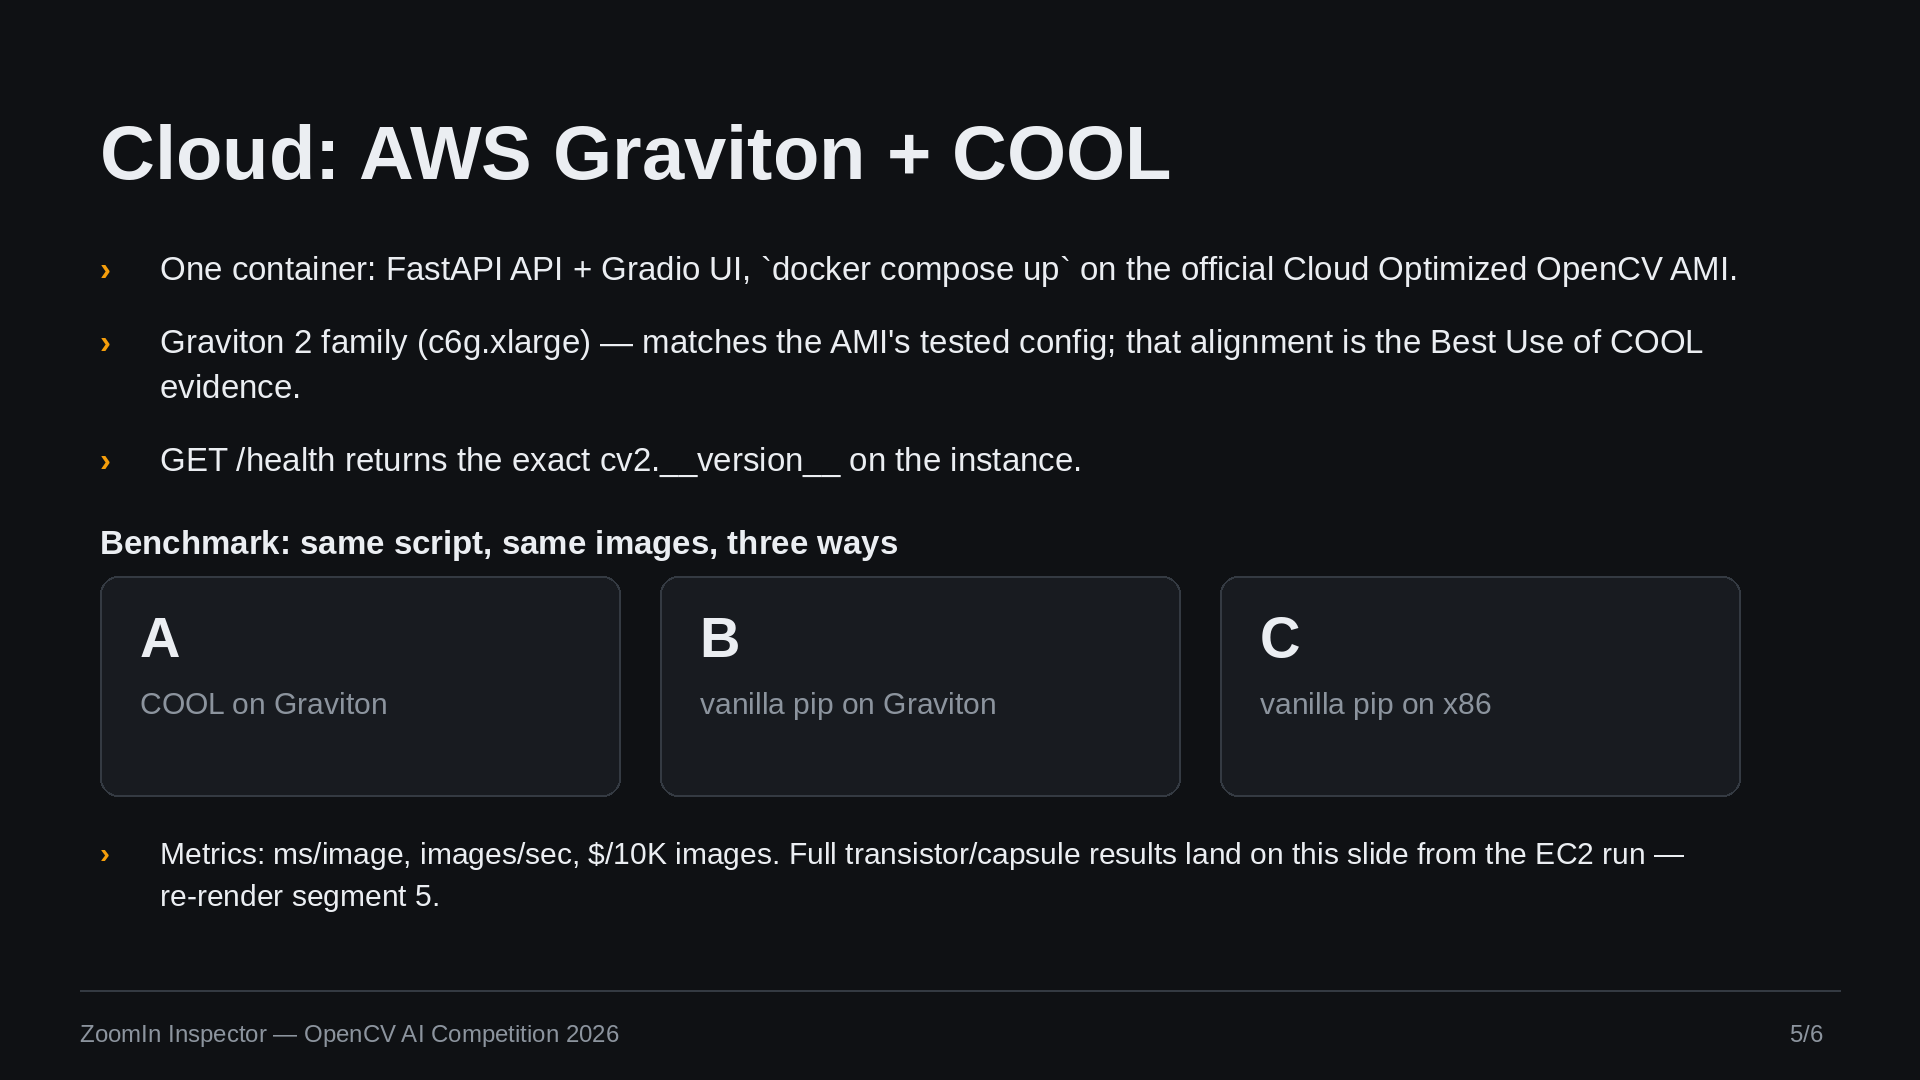
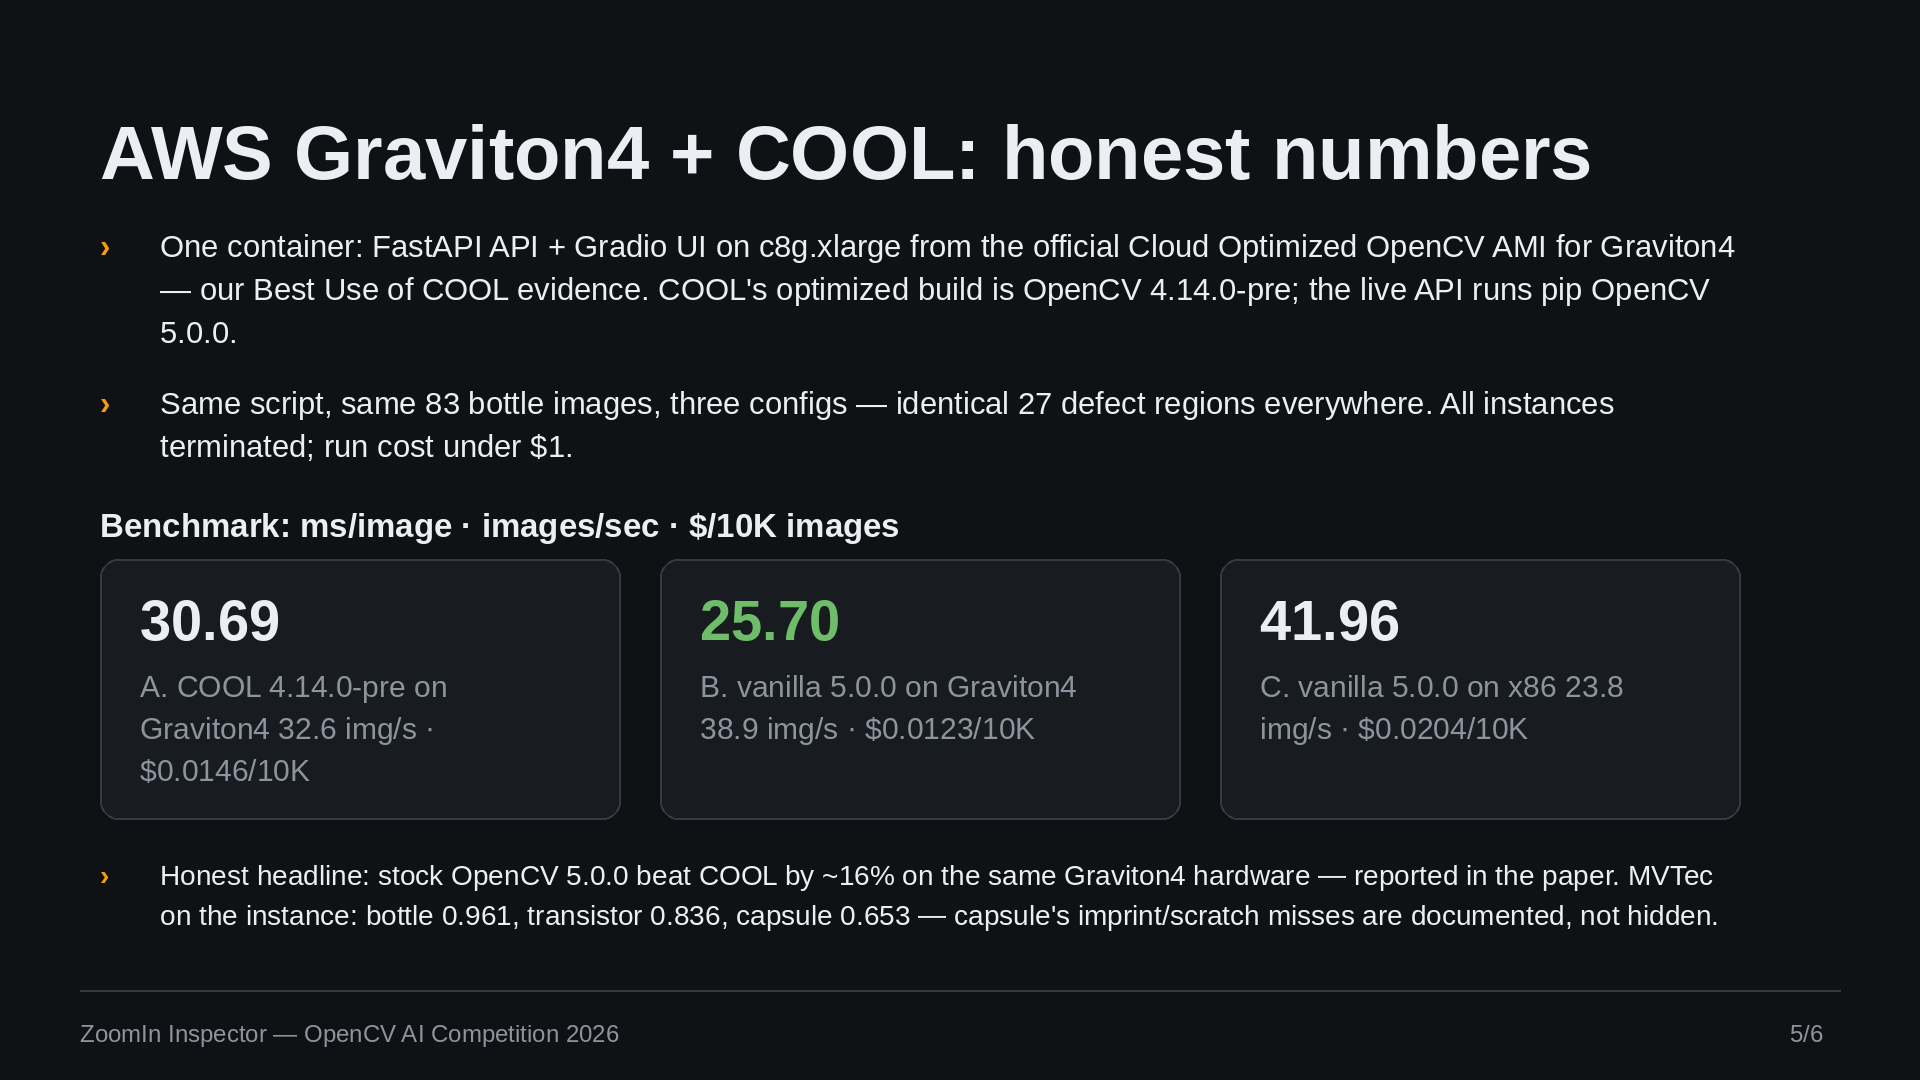
Re-render demo video segment 5 with landed EC2 numbers (v2)
- S5 slide: real benchmark cards (COOL 30.69 / vanilla Graviton 25.70 /
  vanilla x86 41.96 ms/img), honest 16% headline, MVTec bottle 0.961 /
  transistor 0.836 / capsule 0.653; Graviton4 c8g framing (not G2/c6g)
- S5 narration re-recorded via TTS with the landed numbers, incl. the
  capsule failure documented on-slide
- Video v2: 3:54 total (under the 5-min cap), local at video/out/
- docs/DEVPOST.md: paste-ready Devpost draft for the Oct 26 deadline

diff --git a/video/build_slides.py b/video/build_slides.py
@@ -1,8 +1,9 @@
 """Render the ZoomIn Inspector demo-video slides (1920x1080 PNGs) with PIL.
 
 Usage: python3 build_slides.py  -> video/slides/s1..s6.png
-Numbers reflect the MVTec bottle run (2026-10-20) and AWS deploy plan.
-Re-run after editing; EC2 benchmark figures go into s5.
+Numbers reflect the MVTec bottle run (2026-10-20) and the EC2 benchmark
+results (2026-10-22): COOL 30.69 / vanilla-Graviton 25.70 / vanilla-x86 41.96
+ms/image; bottle 0.961, transistor 0.836, capsule 0.653.
 """
 
 from pathlib import Path
@@ -173,8 +174,8 @@ def s4():
          "normal reflection variation.", None),
         ("Synthetic controls: AUROC 1.0, 15.6 ms/image. "
          "Scorer: NumPy/OpenCV only, no learned weights, ~0.5 MB/category.", None),
-        ("Caveat: thresholds tuned on this set; transistor/capsule run on EC2 "
-         "validates per-category.", None),
+        ("Caveat: thresholds tuned on this set; transistor/capsule were run "
+         "on EC2 (0.836 / 0.653) — see the cloud slide.", None),
     ], y, size=30)
     footer(d, 4)
     img.save(OUT / "s4.png")
@@ -182,25 +183,32 @@ def s4():
 
 def s5():
     img, d = canvas()
-    title(d, "Cloud: AWS Graviton + COOL")
+    title(d, "AWS Graviton4 + COOL: honest numbers")
     y = bullets(d, [
-        ("One container: FastAPI API + Gradio UI, `docker compose up` on the "
-         "official Cloud Optimized OpenCV AMI.", None),
-        ("Graviton 2 family (c6g.xlarge) — matches the AMI's tested config; "
-         "that alignment is the Best Use of COOL evidence.", None),
-        ("GET /health returns the exact cv2.__version__ on the instance.", None),
-    ], y=250, size=33)
-    d.text((100, y + 10), "Benchmark: same script, same images, three ways",
+        ("One container: FastAPI API + Gradio UI on c8g.xlarge from the "
+         "official Cloud Optimized OpenCV AMI for Graviton4 — our Best Use "
+         "of COOL evidence. COOL's optimized build is OpenCV 4.14.0-pre; "
+         "the live API runs pip OpenCV 5.0.0.", None),
+        ("Same script, same 83 bottle images, three configs — identical "
+         "27 defect regions everywhere. All instances terminated; run cost "
+         "under $1.", None),
+    ], y=228, size=31)
+    d.text((100, y + 8), "Benchmark: ms/image · images/sec · $/10K images",
            font=F(33, bold=True), fill=FG)
-    y += 62
+    y += 60
     x = 100
-    for name, sub in [("A", "COOL on Graviton"), ("B", "vanilla pip on Graviton"),
-                      ("C", "vanilla pip on x86")]:
-        card(d, x, y, 520, 220, name, sub)
+    for name, sub, hcolor in [
+        ("30.69", "A. COOL 4.14.0-pre on Graviton4\n32.6 img/s · $0.0146/10K", FG),
+        ("25.70", "B. vanilla 5.0.0 on Graviton4\n38.9 img/s · $0.0123/10K", GREEN),
+        ("41.96", "C. vanilla 5.0.0 on x86\n23.8 img/s · $0.0204/10K", FG),
+    ]:
+        card(d, x, y, 520, 260, name, sub, hcolor)
         x += 560
-    bullets(d, [("Metrics: ms/image, images/sec, $/10K images. Full "
-                 "transistor/capsule results land on this slide from the EC2 "
-                 "run — re-render segment 5.", None)], y + 260, size=30)
+    bullets(d, [("Honest headline: stock OpenCV 5.0.0 beat COOL by ~16% on "
+                 "the same Graviton4 hardware — reported in the paper. MVTec "
+                 "on the instance: bottle 0.961, transistor 0.836, capsule "
+                 "0.653 — capsule's imprint/scratch misses are documented, "
+                 "not hidden.", None)], y + 300, size=28)
     footer(d, 5)
     img.save(OUT / "s5.png")
 

diff --git a/docs/DEVPOST.md b/docs/DEVPOST.md
@@ -1,0 +1,74 @@
+# Devpost submission — copy-paste draft (OpenCV AI Competition 2026)
+
+> Status: DRAFT — prepared 2026-10-22 from docs/REPORT.md (§§5–6.4) and the
+> re-rendered demo video. Numbers below are the landed EC2 results.
+
+**Project name:** ZoomIn Inspector
+
+**Tagline:** An agentic visual defect inspector that spends a fixed zoom budget the way a human inspector spends attention — scan the overview, zoom the suspicious regions, escalate when unsure.
+
+**Links**
+- Code: `faketut/zoomin-inspector` (repo push pending; local at `~/workspace/zoomin-inspector`)
+- Live endpoint: judges' API was verified live on the Graviton4 instance during the deploy (GET /health → ok); all instances terminated after the run
+- Video: `video/out/zoomin-demo.mp4` (v2, re-rendered with EC2 numbers — upload to YouTube/Vimeo and paste the link; Devpost needs a streaming URL)
+- Technical report: `docs/REPORT.md` in the repo (includes architecture diagram)
+
+**Built with:** opencv-5 · python · fastapi · gradio · aws-ec2-graviton4 · cloud-optimized-opencv · docker · mvtec-ad
+
+---
+
+## 💡 Inspiration
+
+Industrial visual inspection wastes compute and misses small defects: whole-image classifiers either downscale the defect away or run expensive detectors everywhere. A human inspector does the opposite — scan the overview, zoom into the suspicious regions, look again when unsure, and call over a colleague when something is genuinely ambiguous. We built an agent that inspects the way a human does, under an explicit budget of eight crops, on CPU only — because the small factories that need this most cannot afford GPU inspection rigs.
+
+## 🛠 What it does
+
+ZoomIn Inspector is an agent loop (`zoomin/agent.py`) orchestrating five tools:
+
+1. **`scan_overview`** — full-image anomaly heatmap from a classical per-pixel scorer
+2. **`zoom_crop`** — crops the top-k suspicious regions (the vision output decides the next tool call — this is the agentic-vision step)
+3. **`inspect_crop`** — re-scores the crop against aligned full-image statistics
+4. **`escalate`** — hands ambiguous cases to a human with the visual trace attached, instead of guessing
+5. **`finalize_report`** — emits a defect report with localized masks
+
+Two engineering choices carry the quality:
+
+- **Anomaly scores in absolute units, never per-image normalized.** Our default scorer fits a per-pixel Gaussian over normal training images and scores every pixel in standard deviations. Our first attempt used per-image normalization — every bottle, good or bad, was flagged defect (AUROC 0.44). Removing it was the whole fix.
+- **A fixed zoom budget.** The agent gets eight crops and must spend them where they matter, exactly like an inspector's attention.
+
+One container serves the FastAPI API and the Gradio UI (`docker compose up`); every agent step is logged as a trace and visualized in the demo UI.
+
+## ☁ AWS + COOL
+
+We deployed on **AWS Graviton4** (`c8g.xlarge`) from the official Cloud Optimized OpenCV AMI for Graviton4 — our Best Use of COOL evidence. The benchmark harness ran the same script on the same 83 bottle images three ways:
+
+| Config | OpenCV | ms/image | images/sec | $/10K images |
+|---|---|---|---|---|
+| A. COOL on Graviton4 | 4.14.0-pre (COOL) | 30.69 | 32.6 | $0.0146 |
+| B. Vanilla on Graviton4 | 5.0.0 (pip) | **25.70** | **38.9** | **$0.0123** |
+| C. Vanilla on x86 | 5.0.0 (pip) | 41.96 | 23.8 | $0.0204 |
+
+All three configs found the identical 27 defect regions — the pipelines agree, only the speed differs. The honest headline, stated in the report: **stock OpenCV 5.0.0 beat COOL by ~16% on the same Graviton4 hardware for this workload** (COOL still beat x86 by ~27%). One important detail we handled rather than hid: the COOL AMI's optimized build is OpenCV 4.14.0-pre, not OpenCV 5 — so the live API and the MVTec eval ran the pip 5.0.0 venv on the same instance, and every benchmark CSV records the exact `cv2` version per config.
+
+The same pipeline then measured three MVTec categories on the instance (n=315): bottle AUROC **0.961** (exact reproduction of the local run — harness cross-validated), transistor **0.836**, capsule **0.653**. All instances were terminated after the run; total AWS spend under $1.
+
+## 🚧 Challenges we ran into
+
+- **Sandbox egress blocks SSH**, and the Instance Connect Endpoint needed an IAM permission the deployer role didn't have. Rather than bounce Jack back to the console, both instances ran fully autonomously: boot scripts pulled code from S3, ran the benchmarks and eval, and uploaded logs, stage markers, and result CSVs back to S3.
+- **The COOL AMI is 4.14.0-pre, not OpenCV 5.** Discovered mid-deploy; handled by running the API and eval on the pip 5.0.0 venv and recording exact versions in every CSV.
+- **Two script bugs** (venv activation, requirements-file comment parsing) burned two Graviton runs before the clean v3 run.
+
+## 🏆 Accomplishments
+
+- End-to-end agentic inspection loop with a reproducible benchmark harness and a cross-validated eval (local bottle 0.961 == EC2 bottle 0.961).
+- A benchmark result we reported against our own prize interest: stock OpenCV 5 beats COOL on this workload, with hypotheses and reproducible CSVs.
+- Precision 1.0 on 20 good bottles — zero false alarms — with 10.8% of bottle images and 17.8% overall escalated to a human rather than guessed.
+
+## 📉 Failure cases (required, and we agree they're the interesting part)
+
+Capsule is a real failure: **AUROC 0.653**, with `faulty_imprint` 0/22 and `scratch` 0/23 detected — a pixel-Gaussian scorer cannot see print defects. Transistor (0.836) burns budget and escalates 31% of the time. These are in the report, not hidden: the escalation path exists precisely because a silent wrong call costs more than an honest "I can't tell".
+
+## 🔭 What's next
+
+- Wire the OpenCV 5 DNN hook (ONNXScorer is already stubbed in the repo) so fine textures like capsule print get a learned scorer.
+- Push the repo, upload the demo video, and submit before the Oct 26 deadline.
